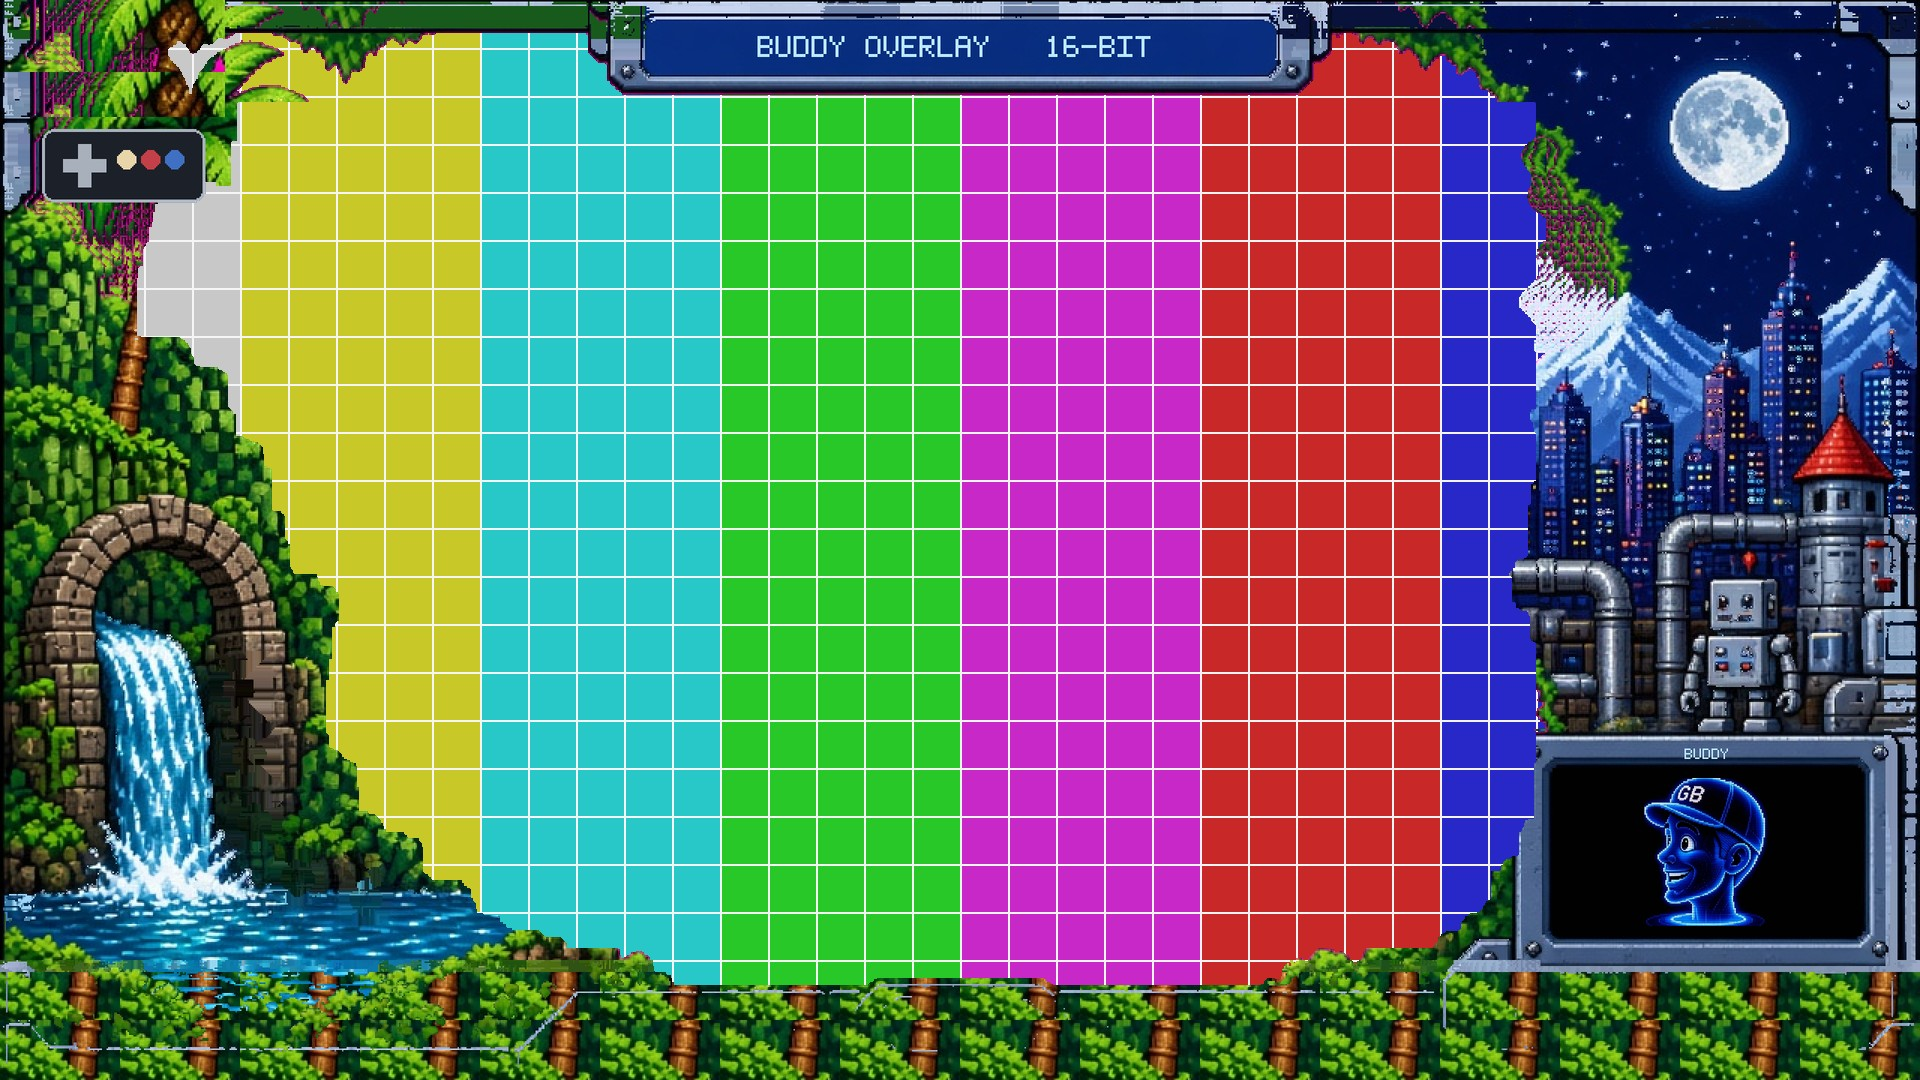
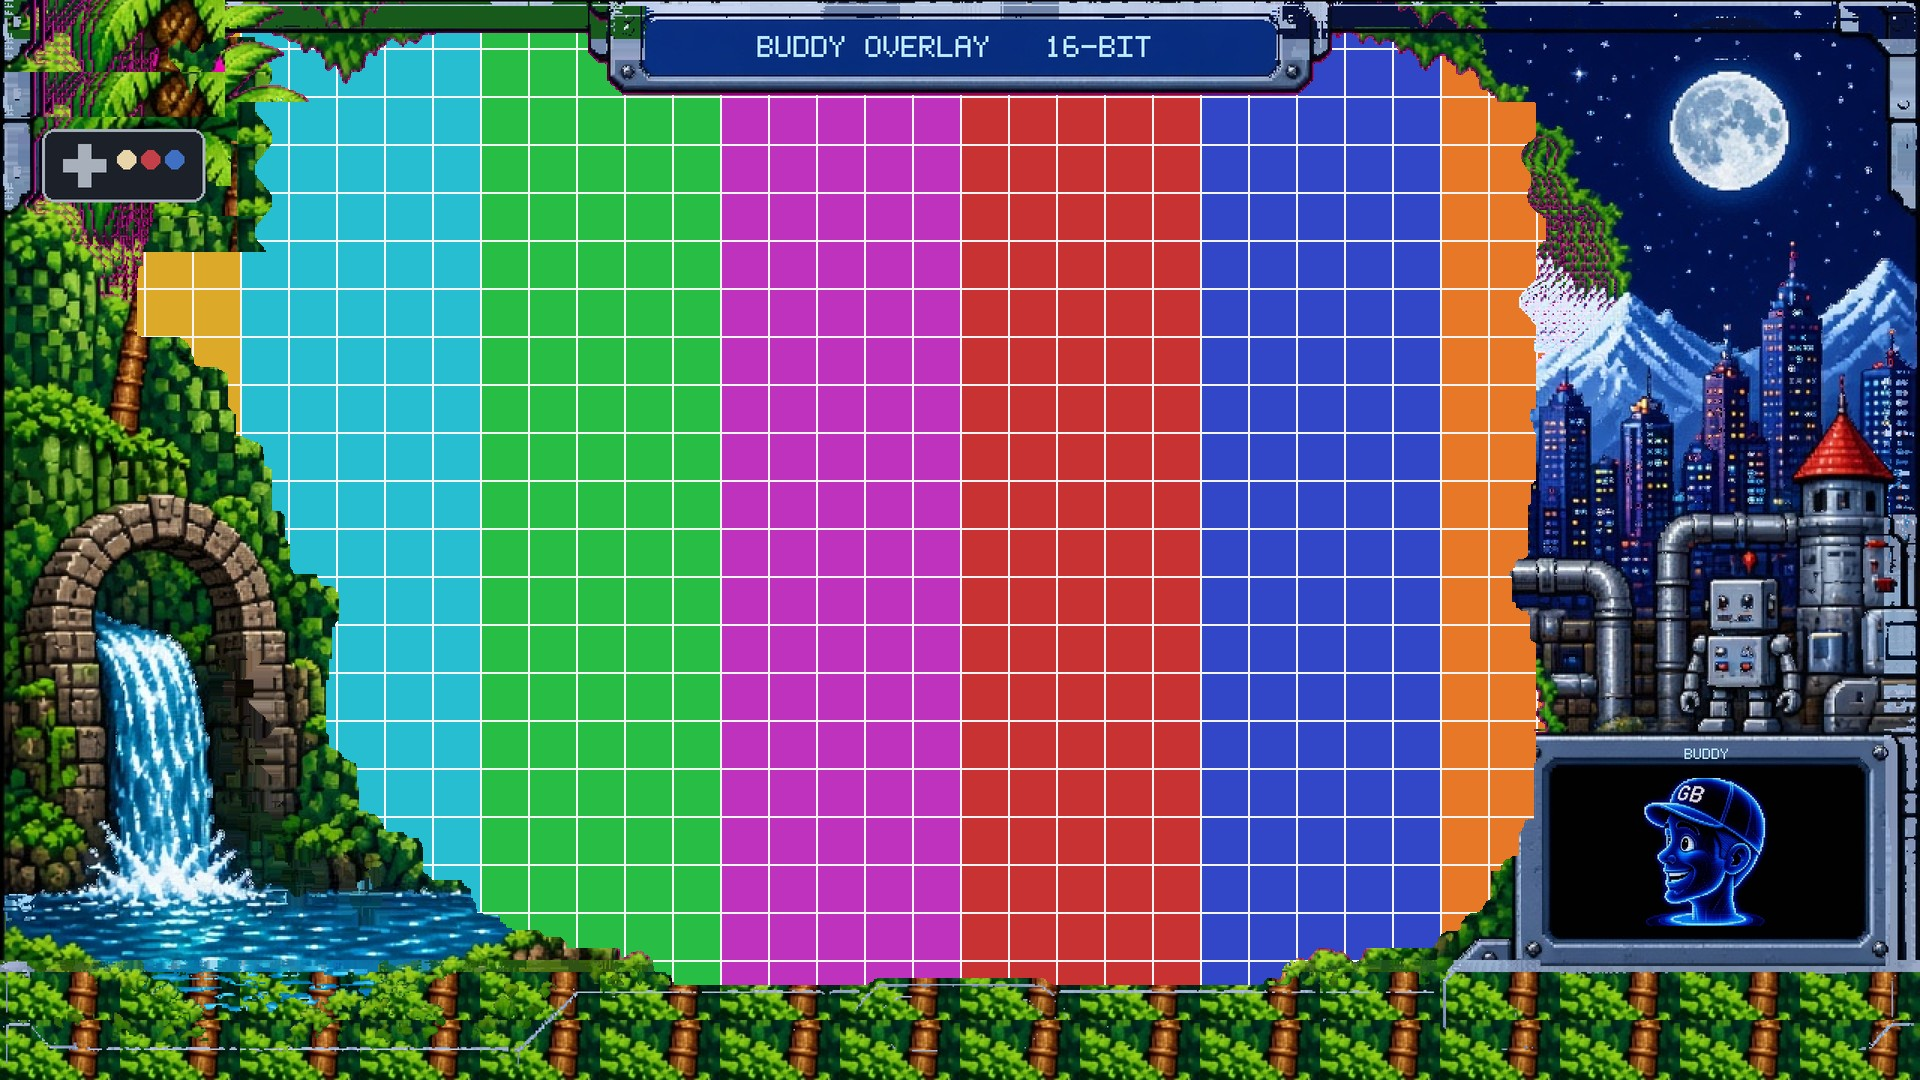
Fill the Genesis corner and letterbox the game in the hole.
Jungle covers the gray notch beside the pad. The menu is a larger panel above the portrait, with labels twice the previous size. RetroArch's window is the opening and uses the core aspect, so the picture keeps its ratio and the spare space is a bar.

diff --git a/backend/retroarch_finder.py b/backend/retroarch_finder.py
@@ -12,7 +12,7 @@ import time
 from pathlib import Path
 
 from .config_loader import SAMPLE_PATH, Config
-from .frame_library import ASPECT_RATIO_CUSTOM
+from .frame_library import ASPECT_RATIO_CORE
 
 log = logging.getLogger("buddy.retroarch")
 
@@ -192,11 +192,37 @@ def locate_and_remember(config: Config) -> str:
     return found
 
 
+def fit_content_in_hole(hole: tuple[int, int, int, int], content_aspect: float) -> tuple[int, int, int, int]:
+    """Largest rectangle of `content_aspect` (width/height) inside the hole.
+
+    A wider hole gets bars on the left and right. A taller hole gets bars on
+    the top and bottom. The picture is never stretched.
+    """
+    x, y, width, height = (int(v) for v in hole)
+    if width < 1 or height < 1 or content_aspect <= 0:
+        return x, y, max(1, width), max(1, height)
+    if width / height > content_aspect:
+        content_h = height
+        content_w = max(1, int(round(height * content_aspect)))
+        content_w = min(content_w, width)
+        origin_x = x + (width - content_w) // 2
+        origin_y = y
+    else:
+        content_w = width
+        content_h = max(1, int(round(width / content_aspect)))
+        content_h = min(content_h, height)
+        origin_x = x
+        origin_y = y + (height - content_h) // 2
+    return origin_x, origin_y, content_w, content_h
+
+
 def hole_append_config(rect: tuple[int, int, int, int]) -> str:
     """Windowed borderless RetroArch whose client area is the hole.
 
-    The custom viewport is the whole window, so the picture fills the hole.
-    RetroArch's own frame overlay stays off. Buddy already draws the bezel.
+    The window is the opening. Aspect index 22 is RetroArch's "Core provided",
+    so the core's picture is fitted inside that window and the spare space is
+    a bar. A custom viewport the size of the window would stretch instead.
+    RetroArch's own frame overlay stays off. Buddy already draws the scenery.
     """
     x, y, width, height = (int(v) for v in rect)
     lines = [
@@ -209,11 +235,7 @@ def hole_append_config(rect: tuple[int, int, int, int]) -> str:
         f'video_window_width = "{width}"',
         f'video_window_height = "{height}"',
         'video_scale_integer = "false"',
-        f'aspect_ratio_index = "{ASPECT_RATIO_CUSTOM}"',
-        'custom_viewport_x = "0"',
-        'custom_viewport_y = "0"',
-        f'custom_viewport_width = "{width}"',
-        f'custom_viewport_height = "{height}"',
+        f'aspect_ratio_index = "{ASPECT_RATIO_CORE}"',
         'input_overlay_enable = "false"',
     ]
     return "\n".join(lines) + "\n"

diff --git a/backend/windows_preview.py b/backend/windows_preview.py
@@ -23,8 +23,8 @@ def _test_pattern(image: Image.Image) -> Image.Image:
     height, width = hole.shape
     ys, xs = np.indices((height, width))
     colors = np.array([
-        [200, 200, 200], [200, 200, 40], [40, 200, 200], [40, 200, 40],
-        [200, 40, 200], [200, 40, 40], [40, 40, 200], [30, 30, 30],
+        [220, 170, 40], [40, 190, 210], [40, 190, 70], [190, 50, 190],
+        [200, 50, 50], [50, 70, 200], [230, 120, 40], [30, 30, 30],
     ], dtype=np.uint8)
     picture = colors[(xs * 8 // max(1, width)) % 8]
     grid = ((xs % 48) < 2) | ((ys % 48) < 2)
@@ -35,22 +35,33 @@ def _test_pattern(image: Image.Image) -> Image.Image:
 
 
 def _draw_menu(image: Image.Image, frame_id: str) -> Image.Image:
-    """The buttons Buddy shows inside the portrait when the menu is open."""
+    """The buttons Buddy shows beside the portrait when the menu is open."""
     canvas = image.convert("RGBA")
     menu = layout_boxes(frame_id, canvas.size, game_running=True)["menu"]
     draw = ImageDraw.Draw(canvas)
-    draw.rectangle(
+    draw.rounded_rectangle(
         (menu["x"], menu["y"], menu["x"] + menu["width"], menu["y"] + menu["height"]),
-        fill=(18, 18, 26, 230),
+        radius=10, fill=(18, 18, 26, 235),
     )
-    labels = ("Male", "Sassy", "Voice", "Rest", "Sound", "Games")
+    rows = (("Buddy: Male",), ("Sassy", "Voice", "Rest"), ("Sound", "Games", "Full"))
+    size = max(20, min(28, menu["height"] // 6))
     try:
-        font = ImageFont.truetype(_FONT, max(11, menu["height"] // 3))
+        font = ImageFont.truetype(_FONT, size)
     except OSError:
         font = ImageFont.load_default()
-    slot = max(1, menu["width"] // len(labels))
-    for index, label in enumerate(labels):
-        draw.text((menu["x"] + 6 + index * slot, menu["y"] + menu["height"] // 3), label, font=font, fill=(232, 244, 255, 255))
+    row_h = menu["height"] // len(rows)
+    for row_index, labels in enumerate(rows):
+        widths = []
+        for label in labels:
+            box = draw.textbbox((0, 0), label, font=font)
+            widths.append(box[2] - box[0])
+        gap = 14
+        total = sum(widths) + gap * (len(labels) - 1)
+        x = menu["x"] + max(8, (menu["width"] - total) // 2)
+        y = menu["y"] + row_index * row_h + max(2, (row_h - size) // 2)
+        for label, width in zip(labels, widths):
+            draw.text((x, y), label, font=font, fill=(232, 244, 255, 255))
+            x += width + gap
     return canvas
 
 

diff --git a/backend/authored_frames.py b/backend/authored_frames.py
@@ -502,6 +502,32 @@ def _erase_lower_plate(rgb: np.ndarray, well: dict[str, int]) -> None:
         rgb[ys, xs] = rgb[ys, np.full(len(ys), donor_x)]
 
 
+def _cover_genesis_corner(rgb: np.ndarray, hole: np.ndarray) -> None:
+    """Jungle covers the hard notch beside the pad. The review box is a 1024-wide view."""
+    height, width = hole.shape
+    scale = width / 1024
+    x0 = int(round(75 * scale))
+    x1 = int(round(130 * scale)) + 6
+    y0 = int(round(20 * scale))
+    y1 = int(round(130 * scale)) + 6
+    leaf = rgb[220:268, 20:84]
+    if leaf.size == 0:
+        return
+    rows = np.arange(height)
+    extra = (8 + 6 * np.sin(rows * 0.15 + 0.4)).astype(int)
+    for y in range(max(0, y0), min(height, y1)):
+        right = min(width, x1 + int(extra[y]))
+        span = hole[y, x0:right]
+        if not span.any():
+            continue
+        sample = leaf[y % leaf.shape[0]]
+        colors = np.resize(sample, (right - x0, 3))
+        row = rgb[y, x0:right]
+        row[span] = colors[span]
+        rgb[y, x0:right] = row
+        hole[y, x0:right] = False
+
+
 def _draw_pad(image: Image.Image) -> None:
     """A small original three-button pad, sitting on the scenery."""
     from PIL import ImageDraw
@@ -603,6 +629,7 @@ def build_plate(frame_id: str) -> tuple[Image.Image, dict[str, dict[str, int]]]:
         rgb[y, x0:limit_x] = rgb[y, limit_x:limit_x + depth]
     if frame_id == "genesis":
         _remove_metal_bezel(rgb, hole, well)
+        _cover_genesis_corner(rgb, hole)
     if frame_id == "snes":
         _erase_lower_plate(rgb, well)
     alpha = np.full(hole.shape, 255, np.uint8)
@@ -624,11 +651,11 @@ def build_plate(frame_id: str) -> tuple[Image.Image, dict[str, dict[str, int]]]:
         sub_scale = 2 if _text_size(subtitle, 2)[1] <= bottom[3] else 1
         _draw_text(image, title, top, ink, title_scale)
         _draw_text(image, subtitle, bottom, ink, sub_scale)
-    # The menu opens inside the portrait. Nothing is painted under the frame.
-    menu_h = max(24, int(well["height"]) // 3)
+    # A tall menu sits above the portrait, in Buddy's column. Nothing is painted under the frame.
+    menu_h = 100
     menu = {
         "x": well["x"],
-        "y": well["y"] + well["height"] - menu_h,
+        "y": max(48, well["y"] - menu_h - 4),
         "width": well["width"],
         "height": menu_h,
     }

diff --git a/tests/test_retroarch_launch.py b/tests/test_retroarch_launch.py
@@ -11,6 +11,7 @@ from backend.retroarch_finder import (
     append_arguments,
     common_exe_candidates,
     content_args,
+    fit_content_in_hole,
     hole_append_config,
     locate_retroarch,
     needs_replace,
@@ -94,7 +95,7 @@ def test_hole_rect_uses_the_same_letterbox_as_the_overlay():
     assert needs_replace((0, 0, 10, 10), (30, 0, 10, 10))
 
 
-def test_hole_config_is_borderless_and_fills_the_window(tmp_path):
+def test_hole_config_letterboxes_inside_the_opening(tmp_path):
     rect = (120, 80, 900, 700)
     text = hole_append_config(rect)
     assert 'video_fullscreen = "false"' in text
@@ -105,10 +106,20 @@ def test_hole_config_is_borderless_and_fills_the_window(tmp_path):
     assert 'video_window_x = "120"' in text
     assert 'video_window_width = "900"' in text
     assert 'video_window_height = "700"' in text
-    assert 'custom_viewport_x = "0"' in text
-    assert 'custom_viewport_width = "900"' in text
-    assert 'custom_viewport_height = "700"' in text
+    # Core provided. A custom viewport the size of the hole would stretch.
+    assert 'aspect_ratio_index = "22"' in text
+    assert "custom_viewport_" not in text
     assert 'input_overlay_enable = "false"' in text
+    # 4:3 in a wide hole keeps 4:3 and leaves bars on the sides.
+    wide = fit_content_in_hole((0, 0, 1600, 900), 4 / 3)
+    assert wide[3] == 900
+    assert abs(wide[2] / wide[3] - 4 / 3) < 0.02
+    assert wide[0] > 0
+    # 4:3 in a tall hole keeps 4:3 and leaves bars above and below.
+    tall = fit_content_in_hole((10, 20, 640, 800), 4 / 3)
+    assert tall[2] == 640
+    assert abs(tall[2] / tall[3] - 4 / 3) < 0.02
+    assert tall[1] > 20
     rom, core = content_args("", "", lambda _path: False)
     args = append_arguments(tmp_path / "buddy-hole.cfg", rom, core)
     assert args == ["--appendconfig", str(tmp_path / "buddy-hole.cfg")]

diff --git a/backend/overlay_app.py b/backend/overlay_app.py
@@ -85,7 +85,7 @@ def run_overlay(session) -> None:
     button_style = {
         "bg": "#12121a", "fg": "#f4f4f4", "activebackground": "#2c2c3a",
         "activeforeground": "#ffffff", "relief": "flat", "bd": 0,
-        "font": ("Segoe UI", 9), "highlightthickness": 1, "highlightbackground": "#3a3a48",
+        "font": ("Segoe UI", 18), "highlightthickness": 1, "highlightbackground": "#3a3a48",
     }
     menu = tk.Frame(root, bg="#12121a")
     toggle = tk.Button(menu, text="Buddy: Male", command=lambda: _toggle_character(), **button_style)
@@ -161,11 +161,12 @@ def run_overlay(session) -> None:
     def _move(delta: int):
         _focus(focus_at["i"] + delta)
 
-    toggle.pack(fill="x", padx=4, pady=(4, 2))
-    row = tk.Frame(menu, bg="#12121a")
-    row.pack(fill="both", expand=True, padx=2, pady=(0, 4))
-    for button in (mode, voice, settings, sound, games, windowed):
-        button.pack(in_=row, side="left", expand=True, fill="both", padx=2)
+    toggle.pack(fill="x", padx=6, pady=(6, 2))
+    for labels in ((mode, voice, settings), (sound, games, windowed)):
+        row = tk.Frame(menu, bg="#12121a")
+        row.pack(fill="both", expand=True, padx=4, pady=2)
+        for button in labels:
+            button.pack(in_=row, side="left", expand=True, fill="both", padx=3)
     games_frame = tk.Frame(root, bg="#000000")
     games_list = tk.Listbox(
         games_frame, bg="#000000", fg="#e8f4ff", selectbackground="#1c4a5a",

diff --git a/backend/frame_library.py b/backend/frame_library.py
@@ -46,21 +46,22 @@ SYSTEM_ALIASES = {
 PLACEMENTS = {
     "genesis": {
         "buddy": {"x": 2070, "y": 1024, "width": 412, "height": 224},
-        "menu": {"x": 2070, "y": 1174, "width": 412, "height": 74},
+        "menu": {"x": 2070, "y": 816, "width": 412, "height": 200},
     },
     "nes": {
         "buddy": {"x": 2072, "y": 1112, "width": 336, "height": 182},
-        "menu": {"x": 2072, "y": 1234, "width": 336, "height": 60},
+        "menu": {"x": 2072, "y": 904, "width": 336, "height": 200},
     },
     "snes": {
         "buddy": {"x": 2166, "y": 1046, "width": 294, "height": 178},
-        "menu": {"x": 2166, "y": 1166, "width": 294, "height": 58},
+        "menu": {"x": 2166, "y": 838, "width": 294, "height": 200},
     },
 }
 
 DESIGN = {"width": 2560, "height": 1440}
 OUTPUTS = {"720p": (1280, 720), "1080p": (1920, 1080)}
-# RetroArch's Custom aspect entry. Confirmed as index 23 in current releases.
+# RetroArch 1.19–1.22. Core provided keeps the picture's aspect. Custom stretches.
+ASPECT_RATIO_CORE = 22
 ASPECT_RATIO_CUSTOM = 23
 
 

diff --git a/tests/test_frame_library.py b/tests/test_frame_library.py
@@ -67,10 +67,11 @@ def test_measured_screen_matches_metadata_and_keeps_the_controller():
         assert 0 < opaque < int(above.size * 0.22)
         buddy = metadata["frames"][frame_id]["buddy"]
         menu = metadata["frames"][frame_id]["menu"]
-        # The menu lives inside Buddy's frame. Scenery continues underneath it.
-        assert menu["y"] >= buddy["y"]
-        assert menu["y"] + menu["height"] <= buddy["y"] + buddy["height"] + 2
+        # The menu is a panel above the portrait, in Buddy's column, not under it.
         assert menu["x"] >= buddy["x"] - 2
+        assert menu["x"] + menu["width"] <= buddy["x"] + buddy["width"] + 4
+        assert menu["y"] + menu["height"] <= buddy["y"] + 8
+        assert menu["height"] >= 160
         below = buddy["y"] + buddy["height"] + 20
         if below + 12 < image.size[1]:
             import numpy as np
